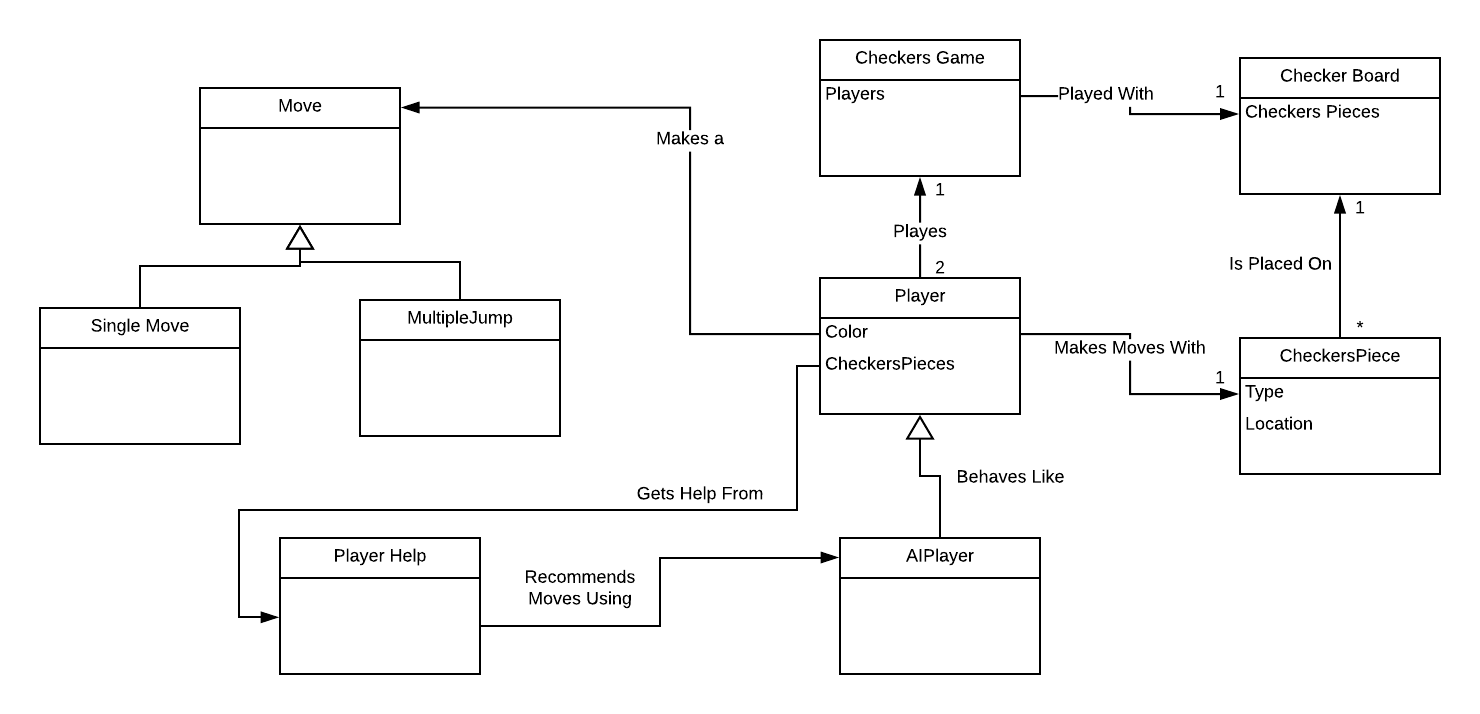
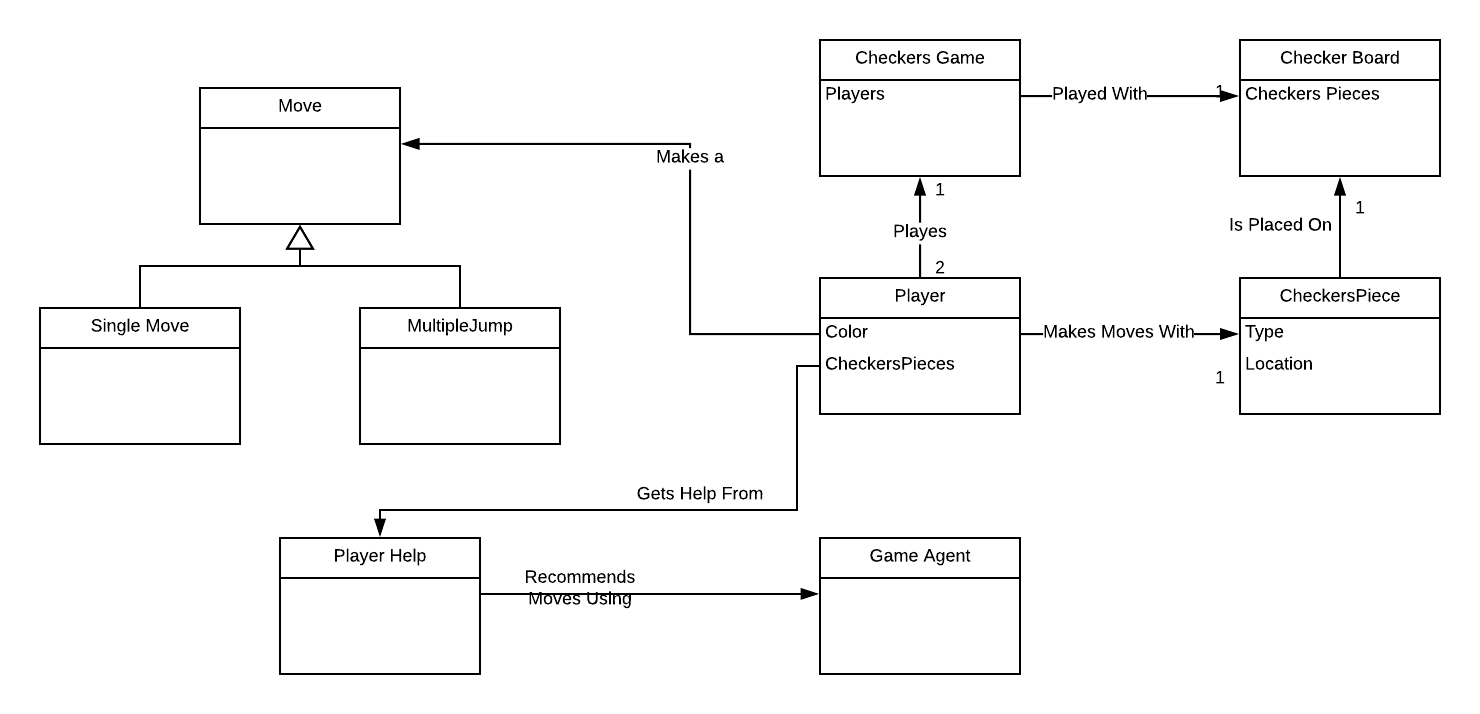
updated design docs

diff --git a/src/main/java/com/webcheckers/appl/PlayerLobby.java b/src/main/java/com/webcheckers/appl/PlayerLobby.java
@@ -144,7 +144,7 @@ public class PlayerLobby
 
 
     /**
-     * Returns a list of all the mot names
+     * Returns a list of all the bot names
      *
      * @return
      */

diff --git a/docs/DesignDoc.md b/docs/DesignDoc.md
@@ -49,9 +49,9 @@ rules. At any point in the game a player must be able to resign which ends the g
 - Two playes must be able to play a game of checkers adnering to the [American rules](http://www.se.rit.edu/~swen-261/projects/WebCheckers/American%20Rules.html).
 - At any point in the game a player must be able to resign from the game at which point the other player Wins by default. 
 
-### Roadmap of Enhancements
-- AI Player: The player will have the option to play a game against a artificial intelligence.
-- Player Help: If chosen, the player will be able to get move reccomendations from the server. This will then display on the board. 
+### Enhancements
+- AI Player: Players will have the option to play a game against a artificial intelligence of their choosing.
+- Player Help: If chosen, players will be able to get move reccomendations from the server. This will then display on the board.
 
 
 ## Application Domain
